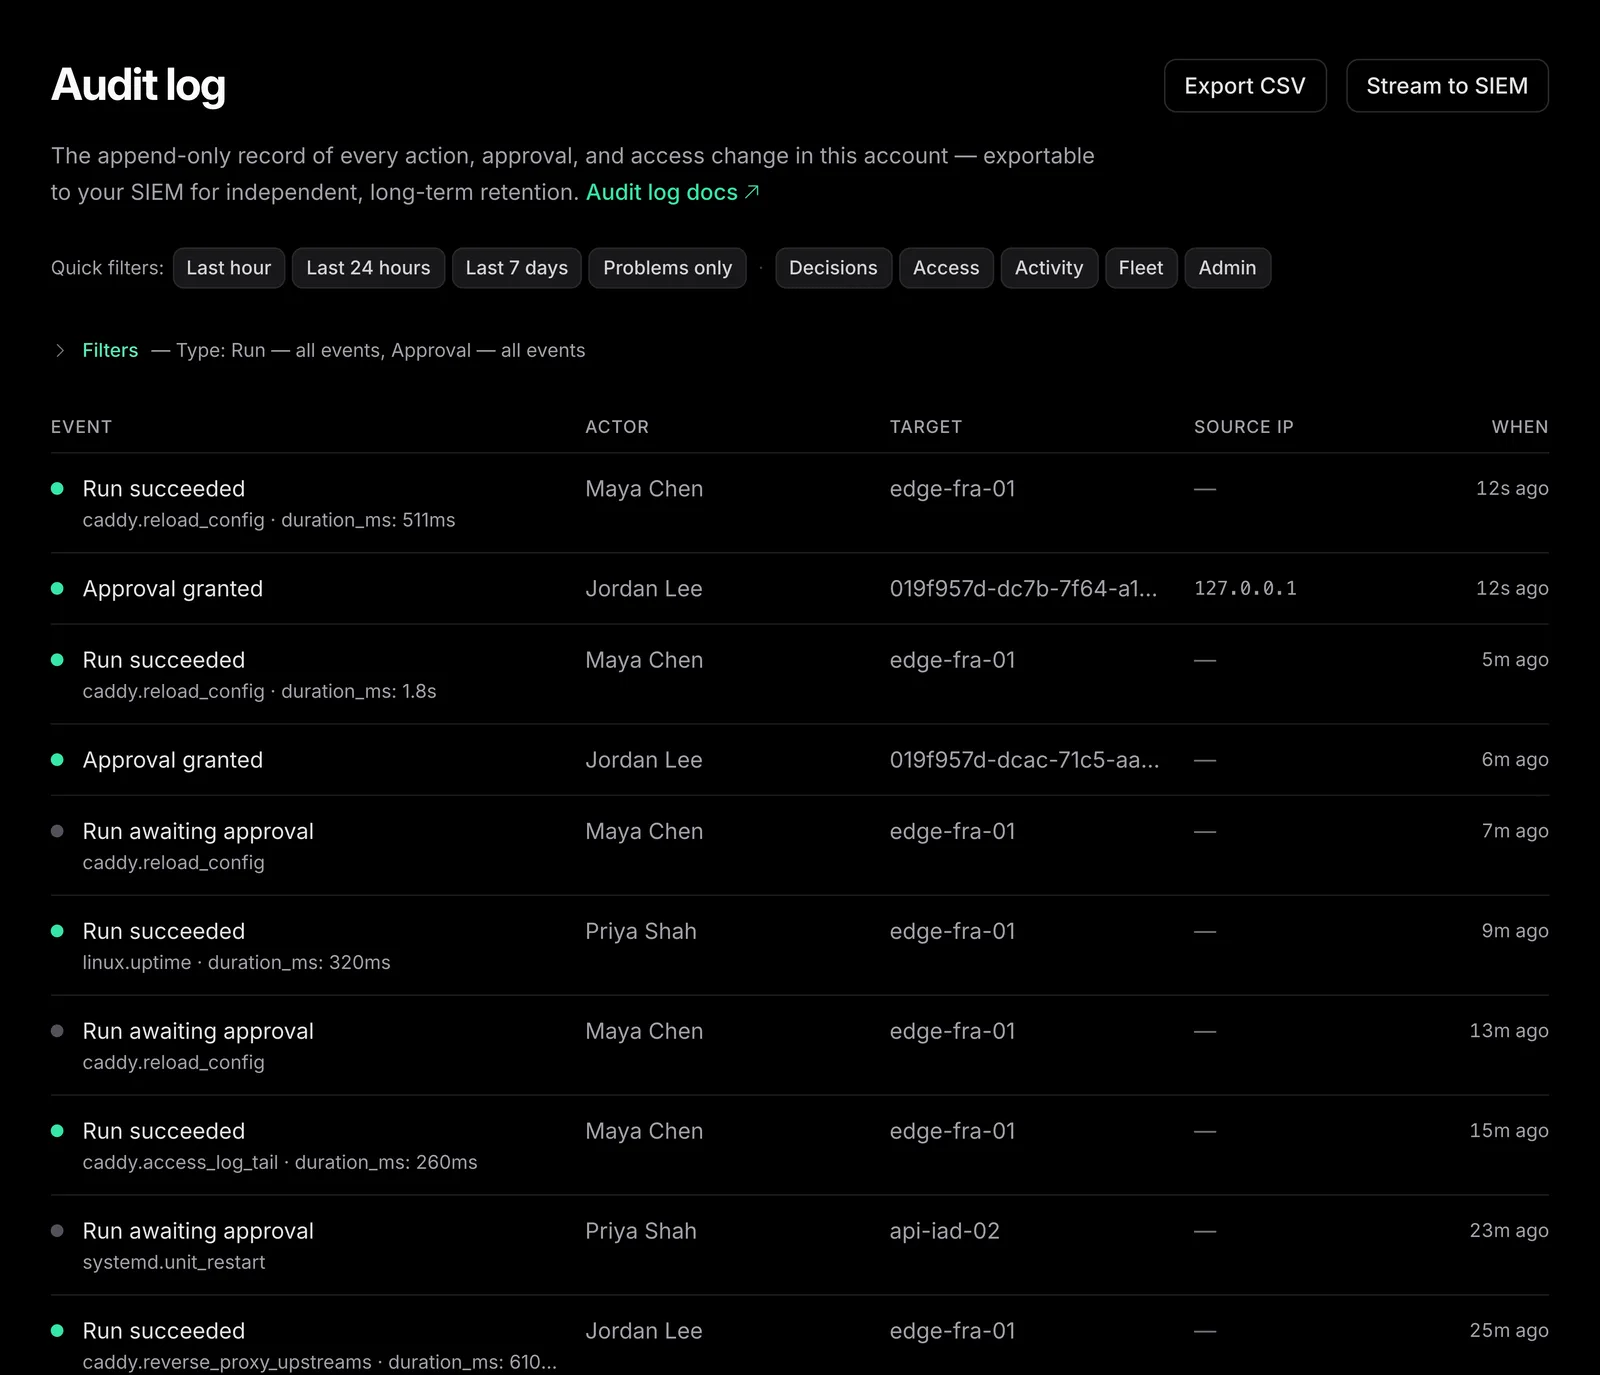
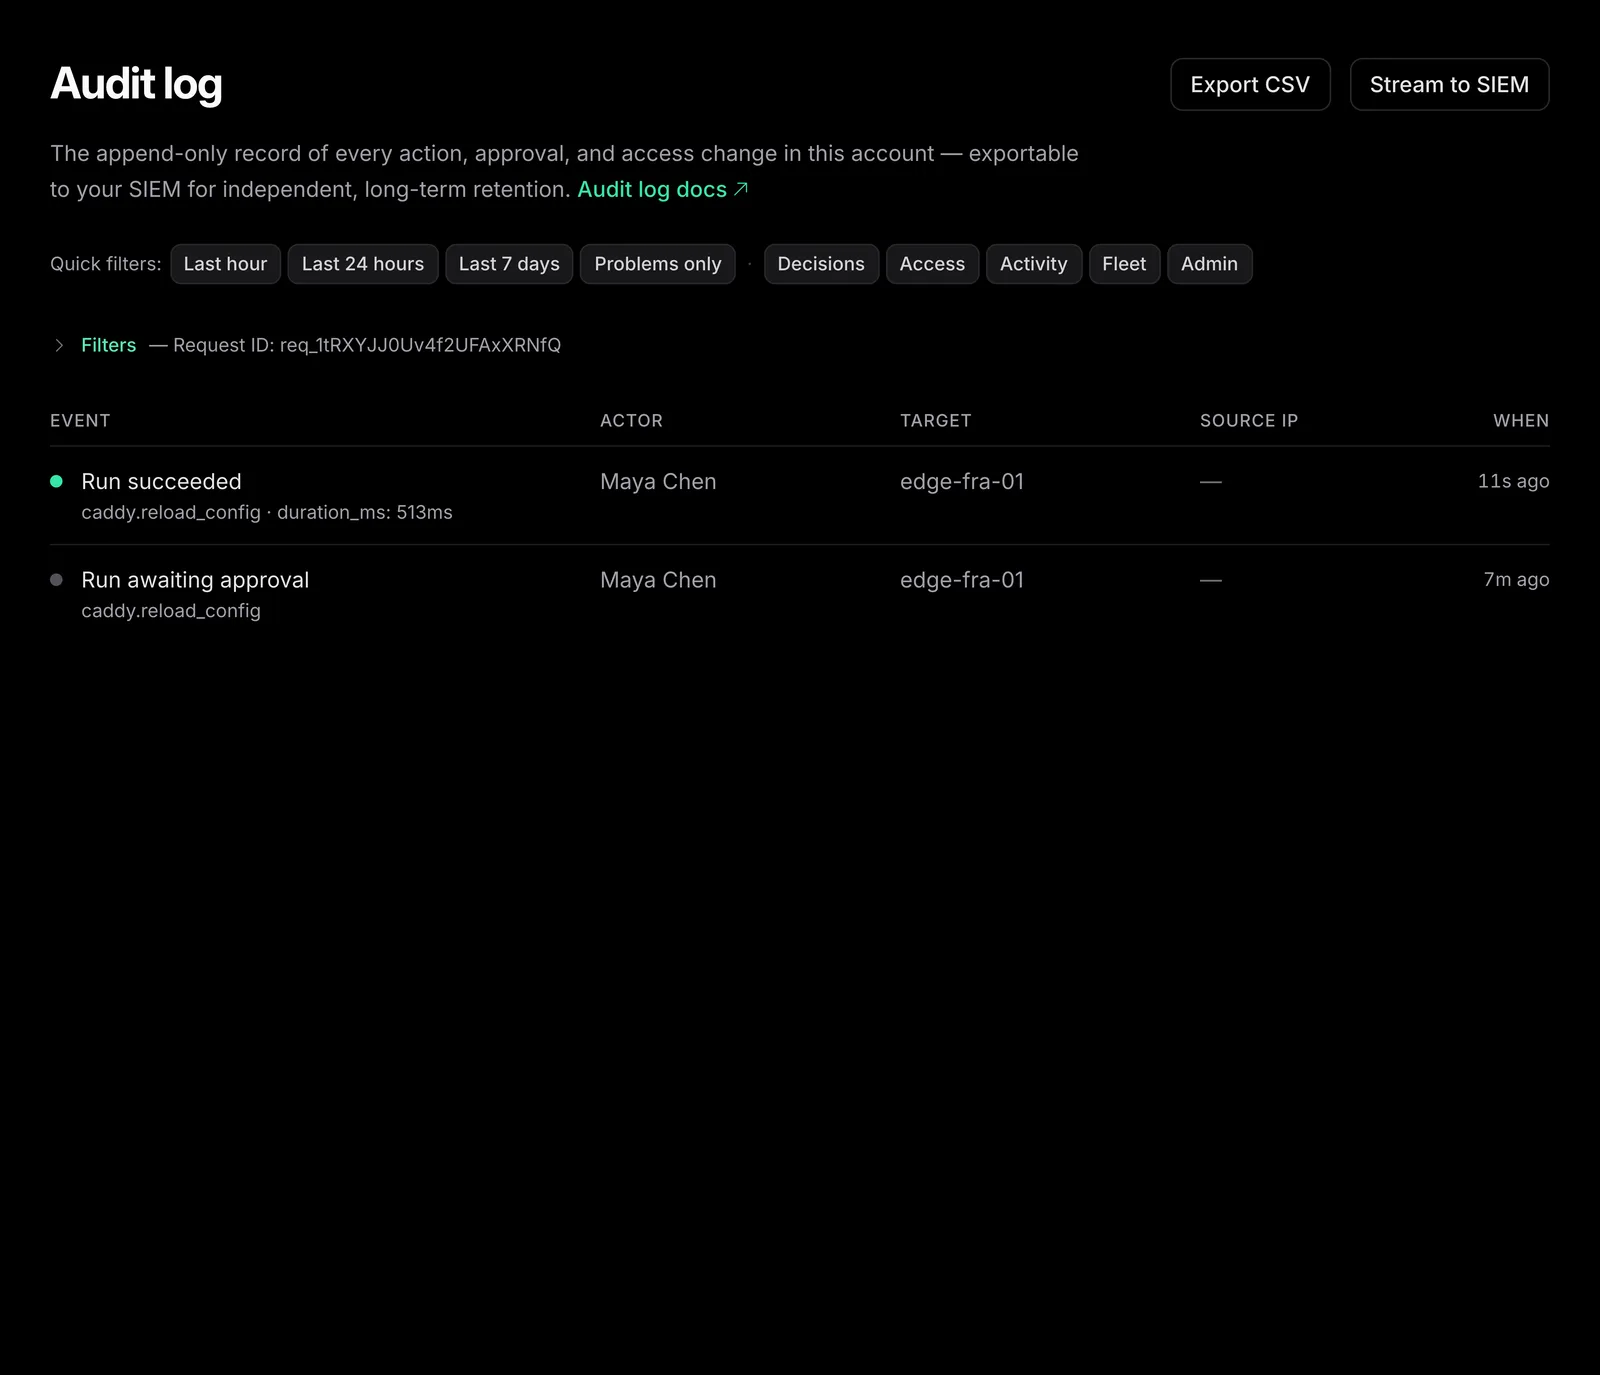
Cast v5: the why beat leads, the camera follows, the filter is real
Three focus notes on the approval-loop cast:

The "AI agents must provide a reason" spotlight now plays as Held's third
beat — action risk, exact command, then the Why block — BEFORE the cursor
ever touches the form, and its ring extends past the policy line instead of
cutting it off. The Decide frame keeps just the typed note.

The player gained camera work: when a beat plays outside the viewport it
scrolls the page to it (smooth, skipped under reduced motion, and never
fired when the reader has scrolled the cast off screen) — so the output
spotlight at the frame's bottom edge brings the page down to show the panel
in full, and the next beat brings it back. The audit-row ring is wider.

And frame 5 stopped simulating its destination: the take now actually
clicks View activity on the run page and captures what it opens — the audit
log pre-filtered to the dispatch's request-id trace, with the collapsed
filter line narrating "Filters — Request ID: req_…" — so the filter state
in the frame is exactly what the click produces.

Coop-Task: 2026-07-24-cast-v5-why-beat-first-camera-scroll-real-view-a

diff --git a/portal/apps/emisar_web/assets/js/console_cast.js b/portal/apps/emisar_web/assets/js/console_cast.js
@@ -112,6 +112,37 @@ function setupCast(root) {
 
   const spotsOf = (frame) => Array.from(frame.querySelectorAll("[data-cast-spot]"))
 
+  // Camera work: bring a beat into view when it plays below (or above) the
+  // fold — the output spotlight lives at the frame's bottom edge, well past a
+  // laptop viewport. Only steer while the cast itself is on screen, so a
+  // reader who scrolled away is never yanked back.
+  const castOnScreen = () => {
+    const box = root.getBoundingClientRect()
+    return box.bottom > 0 && box.top < window.innerHeight
+  }
+
+  const scrollSpotIntoView = (spot) => {
+    if (!castOnScreen()) return
+    const box = spot.getBoundingClientRect()
+    if (box.top >= 24 && box.bottom <= window.innerHeight - 24) return
+    spot.scrollIntoView({
+      behavior: reduceMotion ? "auto" : "smooth",
+      block: box.top > window.innerHeight / 2 ? "center" : "nearest"
+    })
+  }
+
+  const scrollPointIntoView = (point) => {
+    if (!castOnScreen()) return
+    const stageBox = stage.getBoundingClientRect()
+    const box = imageBox()
+    const yView = stageBox.top + box.top + (point.y / 100) * box.height
+    if (yView >= 40 && yView <= window.innerHeight - 40) return
+    window.scrollBy({
+      top: yView - window.innerHeight / 2,
+      behavior: reduceMotion ? "auto" : "smooth"
+    })
+  }
+
   // Position + reveal one spotlight (padded around its target rect); the
   // label pins above or below whichever edge has room, and drops on phones
   // where a pill would cover the ~340px frame it annotates.
@@ -134,6 +165,7 @@ function setupCast(root) {
       label.style.marginBottom = above ? "8px" : "0"
     }
     spot.hidden = false
+    scrollSpotIntoView(spot)
     later(reduceMotion ? 0 : SPOT_IN_MS, () => spot.classList.remove("opacity-0"))
   }
 
@@ -219,6 +251,7 @@ function setupCast(root) {
       cursor.hidden = false
       cursor.style.transition = `left ${TRAVEL_MS}ms cubic-bezier(0.4, 0, 0.2, 1), top ${TRAVEL_MS}ms cubic-bezier(0.4, 0, 0.2, 1), opacity 200ms`
       cursor.classList.remove("opacity-0")
+      scrollPointIntoView(click)
       placeAt(cursor, click)
       later(TRAVEL_MS + 60, () => {
         clickRipple(click)

diff --git a/tools/internal/browser/docs.go b/tools/internal/browser/docs.go
@@ -268,7 +268,10 @@ func captureLoopTake(ctx context.Context, manager *Manager, config DocsConfig) (
 	}
 	printTargets(session, manager.Out, "run")
 
-	if err := session.Navigate("/app/demo/audit?event_type[]=group:Run&event_type[]=group:Approval"); err != nil {
+	// Frame 5 is the REAL destination of the cursor's "View activity" click on
+	// the run page: the audit log pre-filtered to this dispatch's request-id
+	// trace — the filter state in the frame is exactly what the click produces.
+	if err := clickByScript(session, clickText("View activity"), "View activity"); err != nil {
 		return nil, err
 	}
 	if err := clickByScript(session, collapseAuditFilters, "audit filter collapse"); err != nil {
